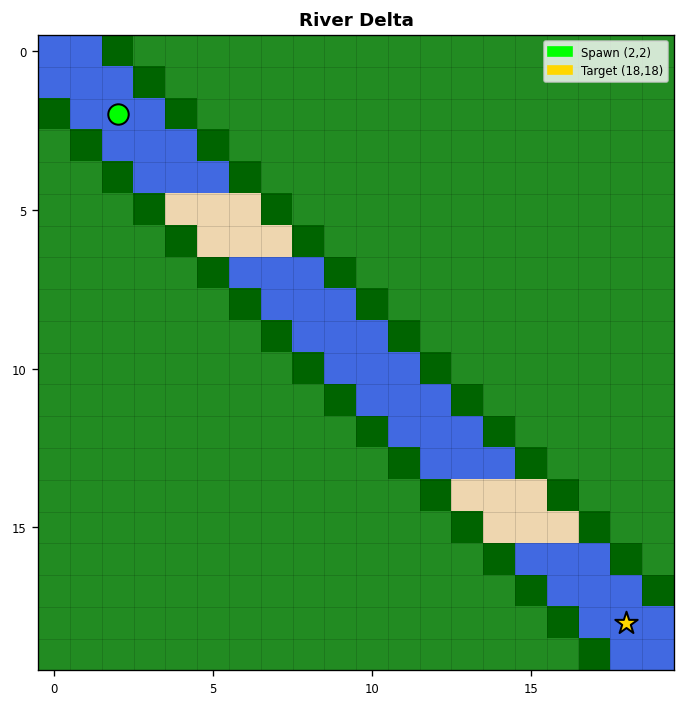
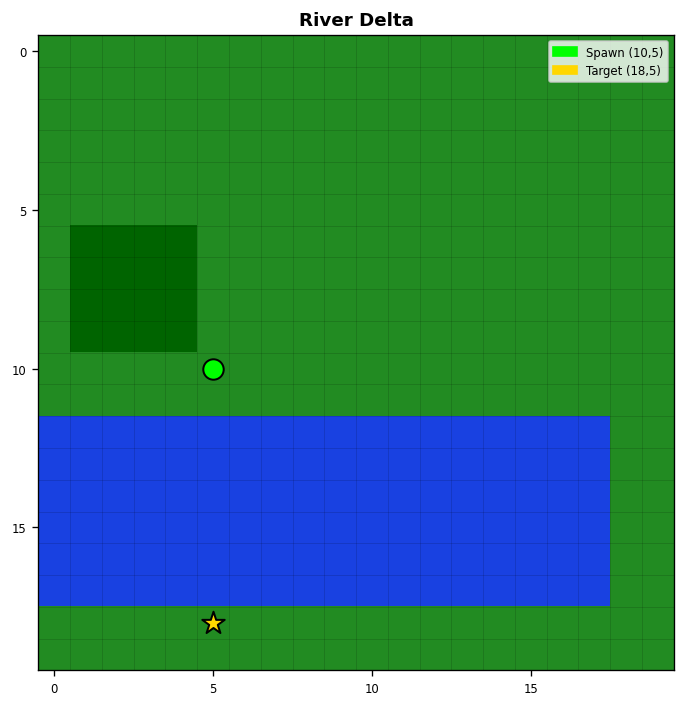
toy maps redesign

diff --git a/cogniland/env/custom_maps.py b/cogniland/env/custom_maps.py
@@ -62,54 +62,66 @@ def _ellipse(arr: np.ndarray, cr: int, cc: int, ra: int, rb: int, val: float) ->
 
 @_register("the_strait", spawn=(10, 2), target=(10, 18))
 def _build_the_strait() -> np.ndarray:
-    """Two land masses separated by a deep channel; shallow northern crossing.
+    """3-tile mountain column next to spawn hides a single forest tile behind it.
 
-    Strategy A: Cross the deep channel directly (short swim, needs resources).
-    Strategy B: Detour north through shallow crossing (more walking, less drain).
+    The column at rows 9-11, col 1 is visible from spawn (distance ≤ 1.5) and
+    points directly opposite the target.  It fully occludes (10,0) from every
+    col≥2 vantage point via Bresenham raycasting:
+
+        (10,2) spawn   → ray hits (10,1) = mountain ✓
+        (9,2)  N-path  → ray hits (10,1) = mountain ✓
+        (8,2)  N-path  → ray hits (9,1)  = mountain ✓  ← requires row 9
+        (11,2) S-path  → ray hits (11,1) = mountain ✓
+        (12,2) S-path  → ray hits (11,1) = mountain ✓  ← requires row 11
+        (7,2)+ / (13,2)+ → distance > 3, invisible anyway
+
+    The bypass is placed in the SOUTH (rows 17-19) so the sub-optimal agent
+    goes south and never enters the visibility range of the hidden forest.
+    The optimal agent explores SOUTH-WEST around the mountain base, discovers
+    the forest at (12,0), wades 1 free step through the moat to (10,0), and
+    collects resources before swimming.
+
+    Both paths are exactly 30 steps; only resource management differs:
+
+        Sub-optimal (south beach bypass, 30 steps):
+            resources = 0 throughout → r_resource = −0.02×25×30 = −15.0
+            total reward ≈ 12 − 3.0 − 15.0 = −6.0
+
+        Optimal (forest detour + swim, 30 steps):
+            resources peak at 9, exit swim with 3
+            r_resource ≈ −11.6
+            total reward ≈ 12 − 3.0 − 11.6 = −2.6
+
+    Swimming without resources is fatal: the 6-wide deep-water channel (rows
+    0-16, cols 7-12) deals 25 HP on steps 4-6, exhausting 75 HP exactly.
+
+    Map layout:
+        rows  9-11  col 1        = MOUNTAINS  (3-tile column; full visual wall)
+        (10,0)                   = FOREST     (single tile; visible from (12,0))
+        (9,0), (11,0)            = WATER      (shallow moat; 1 free water step)
+        rows  0-16  cols 7-12   = DEEP_WATER  (fatal without resources)
+        rows 17-19  cols 7-12   = BEACH       (sub-optimal south bypass)
     """
     arr = np.full((_SIZE, _SIZE), _GRASSLAND, dtype=np.float32)
 
-    # Ocean border (1 cell)
-    _fill(arr, 0, 1, 0, _SIZE, _OCEAN)
-    _fill(arr, _SIZE - 1, _SIZE, 0, _SIZE, _OCEAN)
-    _fill(arr, 0, _SIZE, 0, 1, _OCEAN)
-    _fill(arr, 0, _SIZE, _SIZE - 1, _SIZE, _OCEAN)
+    # Mountain column: 3 tiles, directly west of spawn — full visual wall
+    _fill(arr, 9, 12, 1, 2, _MOUNTAINS)
 
-    # Deep ocean channel (cols 8-12)
-    _fill(arr, 0, _SIZE, 8, 13, _DEEP_WATER)
+    # Single forest tile hidden behind the column
+    arr[10, 0] = _FOREST
 
-    # Shallow northern crossing (rows 1-3)
-    _fill(arr, 1, 3, 8, 13, _WATER)
+    # Shallow-water moat surrounding the forest (north + south; east=mountain, west=edge)
+    arr[9, 0]  = _WATER
+    arr[11, 0] = _WATER
 
-    # Forest patches for resources
-    _fill(arr, 5, 15, 1, 7, _FOREST)    # left island
-    _fill(arr, 5, 15, 13, 19, _FOREST)   # right island
+    # Deep-water channel: 6 tiles wide, full height except south bypass — fatal without resources
+    _fill(arr, 0, 17, 7, 13, _DEEP_WATER)
+
+    # Beach south bypass: safe crossing but equally long and resource-barren (sub-optimal)
+    _fill(arr, 17, _SIZE, 7, 13, _BEACH)
 
     return arr
 
-
-# ---------------------------------------------------------------------------
-# Map 2 — "forest_belt"
-# ---------------------------------------------------------------------------
-
-@_register("forest_belt", spawn=(17, 10), target=(3, 10))
-def _build_forest_belt() -> np.ndarray:
-    """A wide forest belt blocks the direct north-south path.
-
-    Strategy A: Go straight through the forest (slow but resource-positive).
-    Strategy B: Go around via left/right grassland edge (faster but no resource gain).
-    """
-    arr = np.full((_SIZE, _SIZE), _GRASSLAND, dtype=np.float32)
-
-    # Rocky strips at top and bottom
-    _fill(arr, 0, 1, 0, _SIZE, _ROCKY)
-    _fill(arr, 19, _SIZE, 0, _SIZE, _ROCKY)
-
-    # Forest belt across the middle (rows 6-14, cols 2-18)
-    _fill(arr, 6, 14, 2, 18, _FOREST)
-
-    # Left and right edge corridors remain grassland (cols 0-1 and 18-19)
-    return arr
 
 
 # ---------------------------------------------------------------------------
@@ -145,45 +157,37 @@ def _build_twin_peaks() -> np.ndarray:
 # Map 4 — "river_delta"
 # ---------------------------------------------------------------------------
 
-@_register("river_delta", spawn=(2, 2), target=(18, 18))
+@_register("river_delta", spawn=(10, 5), target=(18, 5))
 def _build_river_delta() -> np.ndarray:
-    """A diagonal river from top-left to bottom-right; two ford crossings.
+    """Horizontal deep-water river (rows 12-17) divides spawn (N) from target (S).
 
-    Strategy A: Cross at the first ford early — direct path.
-    Strategy B: Follow the river to the second ford — more forest time.
+    Forest patch (rows 6-9, cols 1-4) lies north-west of spawn — the agent must
+    backtrack to collect resources before attempting to swim.
+
+    Sub-optimal strategy (local minima): detour right to the land bridge
+    (cols 18-19) and walk around — reachable but ~34 steps with 0 resources
+    throughout → heavy resource-deficit penalty → reward ≈ −5.6.
+
+    Optimal strategy: walk back to forest (~6 steps), stay 3 turns to gain
+    9 resources (+6 HP), return to spawn column, then swim straight south
+    through the 6-row deep-water channel (3 free + 3 paid at 2 res each,
+    exits with 3 resources remaining) → ~24 steps → reward ≈ +3.1.
+
+    Swimming without resources is fatal: steps 4-6 deal 25 HP each,
+    exhausting the starting 75 HP exactly on the 6th water tile.
+
+    Map layout (cols 18-19 are grassland land-bridge throughout):
+        rows  0-11  grassland (forest patch rows 6-9, cols 1-4)
+        rows 12-17  DEEP_WATER cols 0-17  |  grassland cols 18-19
+        row  18     grassland (target at col 5)
     """
     arr = np.full((_SIZE, _SIZE), _GRASSLAND, dtype=np.float32)
 
-    # Diagonal river: 1px wide, slope ≈ 1
-    for r in range(_SIZE):
-        c_center = r
-        c0 = max(0, c_center - 1)
-        c1 = min(_SIZE, c_center + 2)
-        arr[r, c0:c1] = _WATER
+    # Deep-water river: 6 rows wide — fatal without resources (cols 0-17)
+    _fill(arr, 12, 18, 0, 18, _DEEP_WATER)
 
-    # Forest strips along both banks (1px each side)
-    for r in range(_SIZE):
-        c_center = r
-        cl = max(0, c_center - 2)
-        arr[r, cl:max(0, c_center - 1)] = _FOREST
-        cr0 = min(_SIZE, c_center + 2)
-        cr1 = min(_SIZE, c_center + 3)
-        if cr0 < cr1:
-            arr[r, cr0:cr1] = _FOREST
-
-    # Ford 1: rows 5-6 — beach
-    for r in range(5, 7):
-        c_center = r
-        c0 = max(0, c_center - 1)
-        c1 = min(_SIZE, c_center + 2)
-        arr[r, c0:c1] = _BEACH
-
-    # Ford 2: rows 14-15 — beach
-    for r in range(14, 16):
-        c_center = r
-        c0 = max(0, c_center - 1)
-        c1 = min(_SIZE, c_center + 2)
-        arr[r, c0:c1] = _BEACH
+    # Forest resource patch north-west of spawn (covers ~(7,2))
+    _fill(arr, 6, 10, 1, 5, _FOREST)
 
     return arr
 

diff --git a/utils/generate_map_assets.py b/utils/generate_map_assets.py
@@ -15,7 +15,7 @@ sys.path.insert(0, str(Path(__file__).parent))
 from cogniland.env.custom_maps import _REGISTRY
 from cogniland.env.constants import TERRAIN_LEVELS, palette
 
-OUT_DIR = Path(__file__).parent / "assets" / "maps"
+OUT_DIR = Path(__file__).resolve().parent.parent / "assets" / "maps"
 
 # Map terrain index → color (float RGB)
 _THRESHOLDS = np.array([TERRAIN_LEVELS[i]["threshold"] for i in range(9)])
@@ -75,7 +75,7 @@ def main():
         out_path = OUT_DIR / f"{map_name}.png"
         fig.savefig(out_path, bbox_inches="tight")
         plt.close(fig)
-        print(f"  saved {out_path.relative_to(Path(__file__).parent)}")
+        print(f"  saved {out_path.relative_to(OUT_DIR.parent.parent)}")
 
     print(f"\nDone — {len(_REGISTRY)} map(s) written to {OUT_DIR}/")
 
